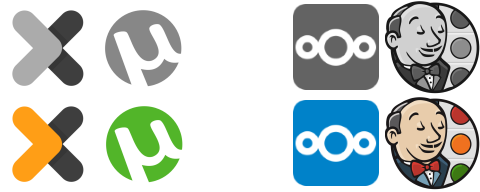
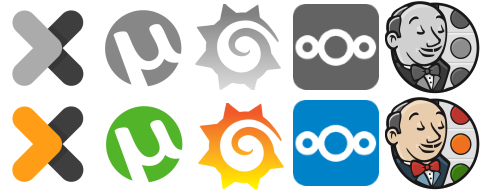
application

Changed region(s): [[0.4062, 0.5312, 0.5938, 1.0], [0.4062, 0.0312, 0.5938, 0.4688]]

diff --git a/src/app/pages/dashboard/dashboard.component.html b/src/app/pages/dashboard/dashboard.component.html
@@ -3,8 +3,8 @@
   <div class="component">
     <a href="https://rockcoolt.xyz/plex" target="_blank" class="icon icon-mono plex">PLEX</a>
     <a href="https://rockcoolt.xyz/rutorrent" target="_blank" class="icon icon-mono rutorrent">ruTorrent</a>
-    <a href="#" class="icon icon-mono googleplus">google+</a>
-    <a href="https://rockcoolt.xyz/nexcloud" target="_blank" class="icon icon-mono nexcloud">nexcloud</a>
+    <a href="https://rockcoolt.xyz/grafana" target="_blank" class="icon icon-mono googleplus">google+</a>
+    <a href="https://rockcoolt.xyz/nextcloud" target="_blank" class="icon icon-mono nexcloud">nexcloud</a>
     <a href="https://rockcoolt.xyz/jenkins" target="_blank" class="icon icon-mono jenkins">jenkins</a>
   </div>
 
